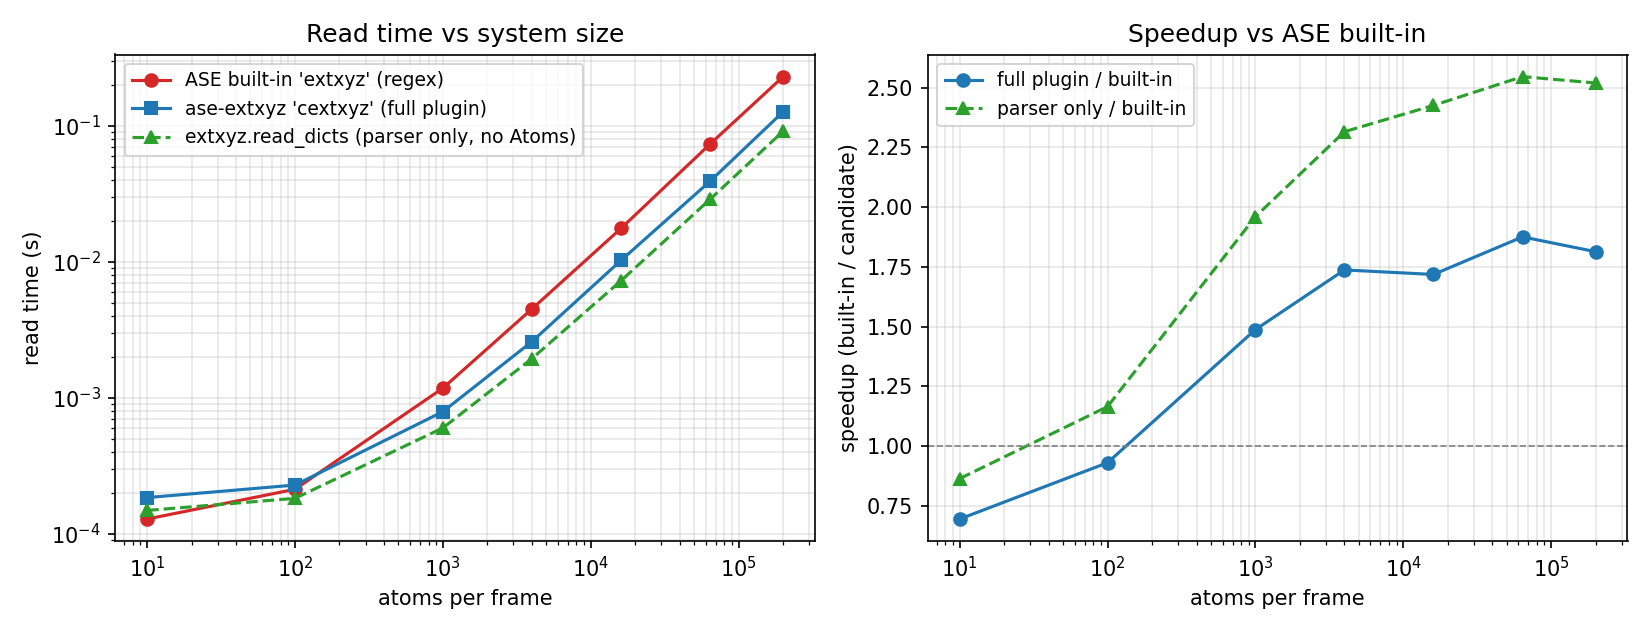
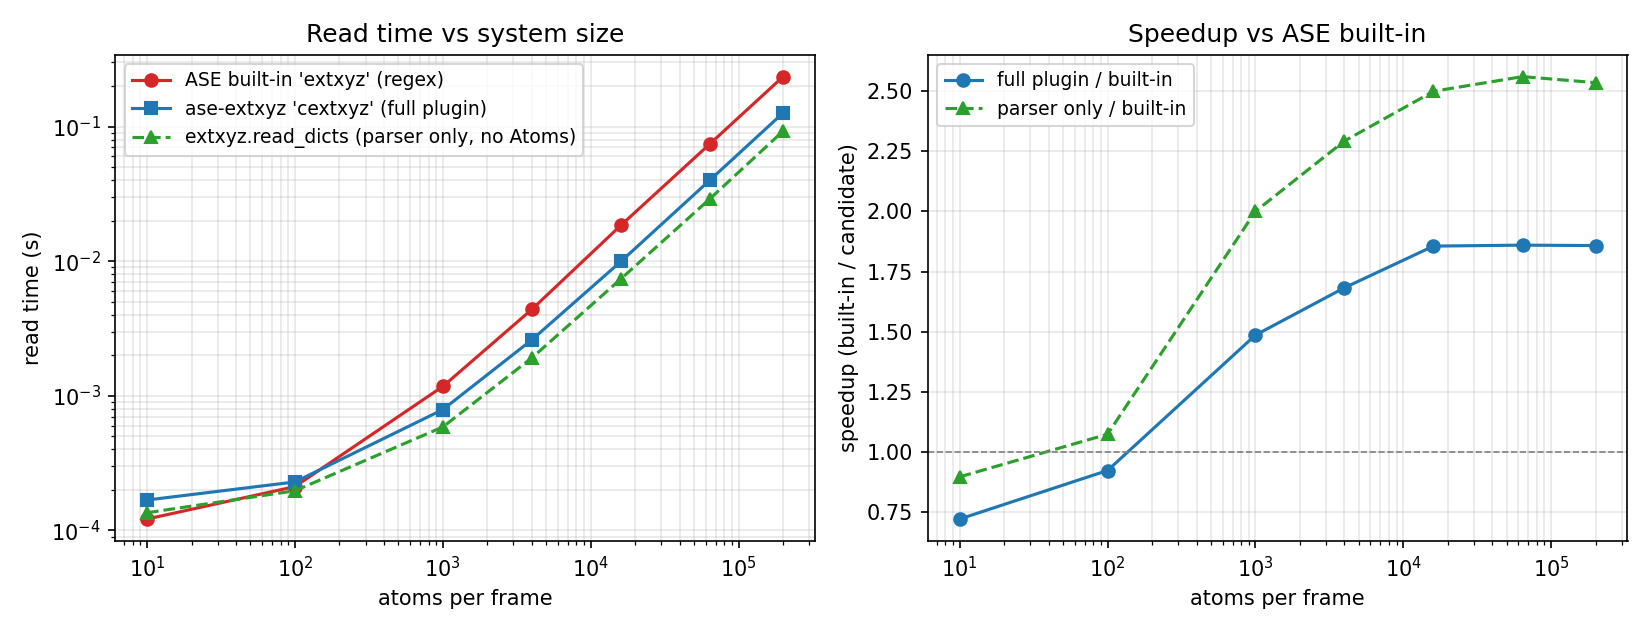
deps: bump libcleri submodule to libcleri master post PCRE2 JIT
libAtoms/libcleri PR #2 (rebase-on-upstream-master -> master) merged.
The libcleri master now contains all upstream cesbit/libcleri commits
through v1.0.2 plus the libAtoms-specific patches:

  - meson build script
  - Windows/MSVC __attribute__ compatibility shim
  - meson.build cleanup (removed deleted children.c)
  - strncasecmp compatibility for MSVC
  - libcleri.a static library target
  - PCRE2 JIT compilation (with LD_PRELOAD-based valgrind detection
    that skips JIT under valgrind to avoid known JIT-vs-valgrind
    false-positive uninitialised-value warnings)

Bump the submodule pointer from 2944749 (pre-JIT meson tip) to
d12f5fa (master tip post-PR #2 merge). The intermediate `meson`,
`pcre2-jit`, and `rebase-on-upstream-master` branches on
libAtoms/libcleri were deleted as redundant after the rebase merge —
master now has everything they had.

Effect: cextxyz now runs JIT'd PCRE2 in libcleri's internal regex
matching too, so the comment-line grammar walk picks up the same
speedup the per-atom regex got in extxyz.c. End-to-end measurement
remains ~1.86x over ASE's built-in regex extxyz reader at 200k atoms
(~2.54x for the parser-only path); README table and plot regenerated
with the new build.

48 of 48 pytest cases still pass on macOS arm64 with Python 3.13.

diff --git a/README.md b/README.md
@@ -48,21 +48,22 @@ For ASE-aware reading/writing see the [`ase-extxyz`](python/ase-extxyz/) sibling
 
 ASE already ships a regex-based `extxyz` reader. The `cextxyz` plugin
 re-parses with the libcleri-based C grammar, with PCRE2 JIT
-compilation enabled on the per-atom data regex (`PCRE2_JIT_COMPLETE`
-+ `PCRE2_ANCHORED`).
+compilation enabled both on the per-atom data regex
+(`PCRE2_JIT_COMPLETE` + `PCRE2_ANCHORED`) and on libcleri's internal
+regexes (so the comment-line grammar walk also runs JIT'd code).
 
 Benchmark on a single-frame file with `N` Cu atoms (positions,
 forces, and a couple of `info` keys):
 
 | atoms / frame | file size | ASE built-in `extxyz` | `cextxyz` plugin | `extxyz.read_dicts` (no Atoms) | speedup, plugin / built-in | speedup, parser / built-in |
 |--:|--:|--:|--:|--:|--:|--:|
-|     10 |   0.00 MB | 0.124 ms | 0.178 ms | 0.144 ms | 0.70× | 0.86× |
-|    100 |   0.01 MB | 0.207 ms | 0.222 ms | 0.177 ms | 0.93× | 1.17× |
-|  1 000 |   0.11 MB | 1.249 ms | 0.838 ms | 0.638 ms | 1.49× | 1.96× |
-|  4 000 |   0.44 MB | 4.490 ms | 2.585 ms | 1.937 ms | 1.74× | 2.32× |
-| 16 000 |   1.74 MB | 17.6 ms  | 10.2 ms  |  7.25 ms | 1.72× | 2.43× |
-| 64 000 |   6.98 MB | 73.4 ms  | 39.1 ms  | 28.8 ms  | 1.88× | 2.55× |
-|200 000 |  21.80 MB |230.1 ms  |126.9 ms  | 91.3 ms  | 1.81× | 2.52× |
+|     10 |   0.00 MB | 0.124 ms | 0.173 ms | 0.137 ms | 0.72× | 0.90× |
+|    100 |   0.01 MB | 0.214 ms | 0.234 ms | 0.200 ms | 0.92× | 1.07× |
+|  1 000 |   0.11 MB | 1.226 ms | 0.821 ms | 0.612 ms | 1.49× | 2.00× |
+|  4 000 |   0.44 MB | 4.444 ms | 2.643 ms | 1.939 ms | 1.68× | 2.29× |
+| 16 000 |   1.74 MB | 18.5 ms  | 9.94 ms  | 7.39 ms  | 1.86× | 2.50× |
+| 64 000 |   6.98 MB | 74.4 ms  | 40.0 ms  | 29.1 ms  | 1.86× | 2.56× |
+|200 000 |  21.80 MB |234.9 ms  |126.4 ms  | 92.7 ms  | 1.86× | 2.54× |
 
 ![Read-time benchmark](benchmarks/read_speedup.png)
 
@@ -78,10 +79,15 @@ object is the contract.
 
 The big lever was PCRE2 JIT (`pcre2_jit_compile(re,
 PCRE2_JIT_COMPLETE)` after `pcre2_compile`); a `sample`-based profile
-attributed ~38 % of CPU to the per-atom `pcre2_match` before JIT.
-Enabling JIT on the comment-line grammar (libcleri) is a follow-up
-that requires an upstream patch; expected to help mostly on files
-with many small frames and rich `info` dicts.
+of the pre-JIT code attributed ~38 % of CPU to the per-atom
+`pcre2_match` and another ~14 % to libcleri's regex matching during
+the comment-line grammar walk. The same JIT call now wraps both call
+sites (the libcleri side via libAtoms/libcleri PR #2). On Linux,
+both call sites detect when running under valgrind via the
+`LD_PRELOAD` it injects and skip JIT compilation — PCRE2 JIT
+intentionally reads bytes past the input end as a speed trick, which
+valgrind reports as uninitialised-value warnings (PCRE2 docs
+explicitly call this out).
 
 Reproduce locally (requires `extxyz`, `ase-extxyz`, `ase`, `matplotlib`):
 
